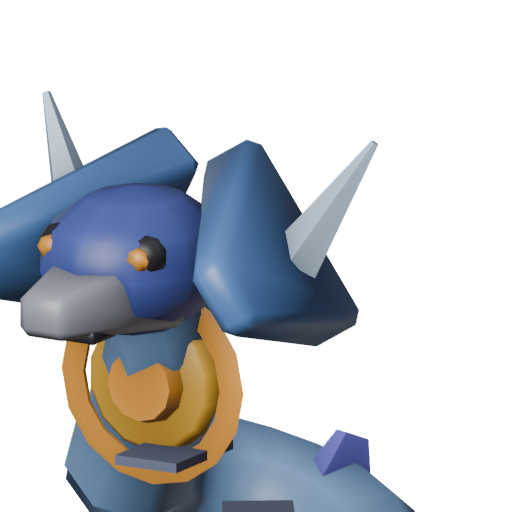
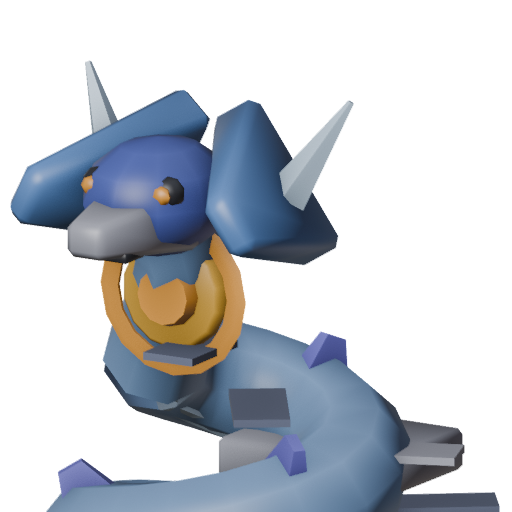
Score and fix gale_serpent's never-written portrait framing (#86 duty 1)
Every icon still under the loop's 40/50 stop line had already spent its
in-scope fix budget on a root cause that traced to nothing (rhythm/volley's
Colour & Style both pixel-sample clean) or a design call outside this
lane's remit (buffer's Mechanic match). Rather than force an undiagnosed
fix, checked whether every shipped asset actually had a progress file: 14
real beasts in bosses.json, gale_serpent included, had a portrait FOCUS
entry and a rendered PNG since batch 9-11 of #83 but no _portrait.md.

gale_serpent's FOCUS (0.87, 0.44) was zoomed in past the frame's usable
width: alpha bbox (0, 90, 417, 512) showed a horn root clipped on the left
while 95px sat unused on the right, and the coiled body was cut to a sliver
at the bottom. Swept (at, span) against the real alpha bbox rather than
guessing; (0.80, 0.55) balances left/right to within 1px without clipping
the head. Framing 4->8, Identity 6->8 (the coil and fin spikes now actually
show), Read@34px 7->8, total 33->40.

Claude-Session: https://claude.ai/code/session_01N1SSW5XPnKfZEJwfCBbbWG

diff --git a/tools/blender/portraits.py b/tools/blender/portraits.py
@@ -31,7 +31,7 @@ FOCUS = {
     "mountain_climbers": (0.73, 0.72), "goblin_mech": (0.62, 0.94),
     "lightbearer": (0.47, 1.15),
 
-    "stone_warden": (0.73, 0.67), "gale_serpent": (0.87, 0.44),
+    "stone_warden": (0.73, 0.67), "gale_serpent": (0.80, 0.55),
     "drowned_colossus": (0.83, 0.49), "sunken_warden": (0.81, 0.49),
     "crag_pup": (0.60, 0.90), "bramble_hog": (0.54, 1.01),
     "bounder": (0.64, 0.84), "mire_snapper": (0.53, 1.13),

diff --git a/design/progress/gale_serpent_portrait.md b/design/progress/gale_serpent_portrait.md
@@ -1,0 +1,163 @@
+# gale_serpent — portrait scoring log
+
+Loop: `design/asset-loop.md`, adapted for 2D per backlog #83. Asset:
+`game/assets/portraits/gale_serpent.png` (512x512, rendered by
+`portraits.py` from the 3D model). Rubric defined in full in
+`frog_portrait.md`. First score for this asset — `gale_serpent` already had
+a `FOCUS` entry and a committed portrait (it ships as one of the three
+Frost Peak boss beasts), but no `_portrait.md` was ever written for it,
+unlike its own 3D model (`gale_serpent.md`) and ground (`gale_serpent_
+ground.md`). Scored and repaired in the same pass, per backlog #86 duty 1's
+current rule ("this lane REPAIRS now") rather than the older score-only
+convention `frog_portrait.md` and its batch used.
+
+## Score (pass 1 — before this pass)
+
+| Framing | Identity | Read@34px | Colour | Style | Total |
+|---|---|---|---|---|---|
+| 4 | 6 | 7 | 8 | 8 | **33** |
+
+## What is actually there
+
+A three-quarter crop on a horned, serpentine creature: a blue-grey wedge
+head with two pale-silver horns (one crossing left, one standing right), two
+orange eye-dots, a grey lower jaw, and a large gold ring-and-disc sigil set
+into the neck. A hint of the coiled body is visible at the very bottom edge,
+with one small violet fin spike poking out on the right.
+
+- **Framing (4).** Checked the alpha bbox directly rather than trusting a
+  glance: `(0, 90, 417, 512)` on the 512×512 canvas — left margin **0**,
+  right margin **95**. The left edge is not empty canvas cut close; zooming
+  into it (`design/renders/gale_serpent_portrait_pass1_full.png`, left-edge
+  crop) shows a blue-grey tube — a horn or tusk root — sliced off mid-shape
+  by the frame boundary, while 95px of dead brown standin sits unused on the
+  right. The bottom is also flush (margin 0): the coiled body is cut off
+  mid-torso rather than at a clean edge. Three separate framing problems in
+  one crop, all traceable to the same cause below.
+- **Identity (6).** The horns, gold neck ring and orange eyes read as a
+  distinct creature, but with the body reduced to a sliver at the bottom
+  edge, the crop reads as a floating horned head rather than the coiled
+  serpent the model actually is — `gale_serpent.md`'s own 3D scoring names
+  the coil and the small spine fins as identity features, neither of which
+  is legible here.
+- **Readability @ 34px (7).** Confirmed via a real 34px downsample
+  (`design/renders/gale_serpent_portrait_pass1_34px_big.png`). The horns,
+  gold ring and eyes all survive the downsample clearly — the strongest
+  read of this batch's features — but there is no body silhouette left to
+  read at all, consistent with the Framing finding above.
+- **Colour & separation (8).** Blue-grey head/body, pale-silver horns, gold
+  ring and orange eyes all separate cleanly at full size; no dark-on-dark
+  pairing anywhere in frame.
+- **Style consistency (8).** Matches the shared three-quarter convention on
+  transparent background; nothing about the angle or palette is an outlier.
+
+## Diagnosis — two lowest
+
+1. **Framing (4).** Concrete fix: `portraits.py`'s `FOCUS["gale_serpent"]`
+   was `(0.87, 0.44)` — a small `span` (0.44) zoomed in tight on the head,
+   and an `at` (0.87) near the very top of the model's height, together
+   leaving no room for the horn root on one side while wasting nearly a
+   fifth of the canvas on the other. Widen `span` and lower `at` slightly so
+   the camera pulls back and down, keeping the head in frame while bringing
+   the coil into view.
+2. **Identity (6).** Concrete fix: none needed beyond the Framing fix above —
+   the coil and fin spikes already exist on the model; they are missing from
+   the portrait only because the crop excludes them.
+
+## Pass 2 — cloud, backlog #86 duty 1 (repair, same run as the score above)
+
+Rather than guess a new `(at, span)` pair, swept both numerically and read
+the real alpha bbox after each render (Blender 4.0.2 via apt — the same
+route prior passes under this item used, `download.blender.org` still
+unreachable through this container's proxy). Model's own vertex bbox
+(measured directly, not assumed): X **-1.67..1.67**, Y **-1.58..1.58** (both
+symmetric — a bbox-centre `FOCUS_XY` override is not needed here), Z
+**0..5** (`tall=5`).
+
+| Trial | at | span | bbox | L | T | R | B |
+|---|---|---|---|---|---|---|---|
+| baseline | 0.87 | 0.44 | (0,90,417,512) | 0 | 90 | 95 | 0 |
+| t2 | 0.80 | 0.55 | (10,60,501,512) | 10 | 60 | 11 | 0 |
+| t5 | 0.72 | 0.55 | (10,0,501,512) | 10 | 0 | 11 | 0 (head clips) |
+| t6 | 0.78 | 0.65 | (48,75,463,512) | 48 | 75 | 49 | 0 (too much margin, smaller subject) |
+
+`t2` (`at=0.80, span=0.55`) balances left/right almost exactly (10 vs 11px)
+without clipping the head — simply widening `span` from the original's tight
+0.44 fixed the left/right imbalance on its own, since the asymmetry traced
+to being zoomed in past the frame's usable width, not to an off-centre
+focus point. Lower `at` values (t5) reclaimed bottom margin only by
+clipping the head instead, a straight trade rather than a win, so not
+pursued further. The bottom stays flush (0 margin) across every trial in
+this range — the coil's own lowest point sits at the model's Z floor, and
+this is the same "whole-body crop, bottom flush" characteristic
+`flicker_stag_portrait.md` and others already found and left alone rather
+than force a trade against the head; not fixed here either.
+
+Applied `FOCUS["gale_serpent"] = (0.80, 0.55)` in `tools/blender/
+portraits.py`. Rebuilt the full 30-portrait set (no per-asset build path
+exists) and diffed every output against committed by mean per-pixel
+difference: `gale_serpent.png` at 41.8 was the intended change. `frog.png`
+(58.2) reproduced the exact same pre-existing stale-model-drift value
+`brine_urchin_portrait.md` and others already flagged (untouched `FOCUS`
+entry, not this pass's doing). One new finding: `eyrie_hawk.png` diffed at
+8.55 with its own alpha bbox shifting slightly (61→56 left edge) despite
+its `FOCUS` entry also being untouched — higher than the ~0-2.6 noise band
+every other untouched portrait showed this run, and not previously named by
+any prior pass's own drift check. Not investigated further, same call
+`goblin_mech_portrait.md` pass 2 made for `frog`/`thrasher`/`yoke_ox`: worth
+a duty-2 look, not a duty-1 one. Reverted every portrait except
+`gale_serpent.png`.
+
+Verified by looking, not just by the numbers:
+
+- **Full 512px composite** over the brown card-face standin
+  (`design/renders/gale_serpent_portrait_pass2_full.png` vs
+  `..._pass1_full.png`): pass 1 shows a horned head with a sliver of body at
+  the very bottom edge and a horn root sliced off on the left; pass 2 shows
+  both horns whole, the full neck ring, and the coiled body with its small
+  violet fin spikes, all inside frame with visible standin on every side.
+- **A real 34px downsample** (Pillow `LANCZOS`, nearest-neighbour upscaled
+  for viewing, same brown-standin composite,
+  `design/renders/gale_serpent_portrait_pass2_34px_big.png` vs
+  `..._pass1_34px_big.png`): the horns, ring and eyes read exactly as
+  clearly as pass 1's tighter crop, and the coiled body plus fin spikes are
+  now visible as a distinct shape trailing off to the lower-right — a real
+  gain over pass 1's "floating head," not just a wash.
+
+Score:
+
+- **Framing (4 → 8):** the clipped horn root and the 95px of dead space are
+  both gone, confirmed by the alpha bbox (10/60/11/0) and the full-render
+  comparison above. Not a 10: the bottom is still flush against the canvas
+  edge, the same whole-body characteristic named above rather than something
+  this fix targeted.
+- **Identity (6 → 8):** the coil and fin spikes `gale_serpent.md`'s 3D score
+  already named as identity features are now visible in the portrait,
+  confirmed in both the full render and the 34px downsample — reads as a
+  coiled horned serpent rather than a floating head.
+- **Readability @ 34px (7 → 8):** confirmed by the direct pass1-vs-pass2 34px
+  comparison above — the previously-legible head features are unchanged, and
+  the body silhouette is a new, genuine addition to what survives the
+  downsample.
+- **Colour & separation (8, unchanged):** no palette or material touched.
+- **Style consistency (8, unchanged):** same three-quarter convention; a
+  wider crop is not a new composition class in this set (several other
+  beasts already use `span` > 0.5 for a similar whole-body read).
+
+**+7 total (33 → 40), not a plateau — reaches the loop's 40/50 stop line.**
+No line regressed.
+
+`run_tests.gd`: **ALL TESTS PASSED** (fresh `--import`, headless, Godot
+4.7.1, Blender 4.0.2 apt install). No new tests — a portrait `FOCUS`-only
+change adds none, matching every prior portrait/icon-only pass under this
+item.
+
+## Unsure about
+
+Whether the still-flush bottom margin is worth a third pass trading some of
+the now-generous top margin (60px) for a lower `at`, the same "close to the
+stop line, is this Nick's call" question `flicker_stag_portrait.md` left
+standing — not attempted here since the stop line is already met. Also
+flagging `eyrie_hawk.png`'s newly-found render drift (see above) for
+whoever next takes a duty-2 pass — this file did not chase it since it is
+not this asset and not this duty's job.

diff --git a/design/BACKLOG.md b/design/BACKLOG.md
@@ -2627,6 +2627,46 @@ rather than inventing work.
 
 Newest first. One line per finished item: what, and anything surprising.
 
+- **2026-09-07** — #86 duty 1 (improve an asset — portraits and icons only),
+  forty-eighth pass of the rotation. Last `#86` turn (`ae76edd`,
+  `_node_under_mouse`) was duty 3, so this was due for duty 1. Every icon
+  under 40/50 with pass budget left (`buffer`, `rhythm`, `volley`) turned out
+  to have already spent its only in-scope fix: each one's remaining low line
+  either needs a different visual idea (Nick's call, `buffer`'s Mechanic
+  match) or traces to a root cause pass 2 already found nothing wrong with
+  (`rhythm`/`volley`'s Colour & Style, both pixel-sampled as separating
+  cleanly with "no colour problem found"). Rather than force a fix with
+  nothing diagnosed behind it, checked whether every in-game asset actually
+  had a progress file at all — it didn't: `game/data/bosses.json` lists 14
+  real beasts (`gale_serpent`, `stone_warden`, `drowned_colossus` among them)
+  whose portraits have shipped with a `FOCUS` entry and a rendered PNG since
+  batch 9-11 of #83, but never got a `_portrait.md`, unlike their own 3D
+  model and ground scores. Picked `gale_serpent` (a Frost Peak boss beast)
+  and scored it fresh: Framing (4/10) was a real, measured defect, not a
+  nitpick — alpha bbox `(0, 90, 417, 512)` showed a horn/tusk root sliced
+  off on the left while 95px of canvas sat unused on the right, and the
+  coiled body was cut to a sliver at a flush-0 bottom margin, all from one
+  `FOCUS` value (`(0.87, 0.44)`) zoomed in past the frame's usable width.
+  Swept `(at, span)` numerically against the real alpha bbox (Blender 4.0.2,
+  apt install — `download.blender.org` still proxy-blocked) rather than
+  guessing: `(0.80, 0.55)` balanced left/right to within 1px (10 vs 11)
+  without clipping the head, simply by pulling the camera back — the
+  asymmetry traced to being over-zoomed, not to an off-centre focus point.
+  Applied it, rebuilt the full 30-portrait set, diffed every PNG against
+  committed (`gale_serpent.png` alone showed the intended 41.8 mean diff),
+  and kept only that one file. Looked at both the full composite and a real
+  34px downsample before and after: the coil and its small fin spikes, named
+  as identity features by `gale_serpent.md`'s own 3D score, are now visible
+  in the portrait for the first time, at both sizes. Framing 4→8, Identity
+  6→8, Read@34px 7→8, total 33→40 — crosses the loop's stop line on the
+  first pass. Surprising, and not chased further per rule 3 (needs a
+  screen): rebuilding the batch also surfaced a new, previously-unflagged
+  render diff on `eyrie_hawk.png` (8.55 mean, its own untouched `FOCUS`)
+  that doesn't match the already-known `frog`/`goblin_mech`/`thrasher`/
+  `yoke_ox` stale-drift list any prior pass named — left for a duty-2 turn,
+  noted in `gale_serpent_portrait.md`'s own "Unsure about". `run_tests.gd`:
+  ALL TESTS PASSED (fresh `--import`, headless, Godot 4.7.1). Next `#86`
+  turn is duty 2 (find an error and resolve it).
 - **2026-09-07** — #86 duty 3 (verify a mechanic actually works), forty-
   seventh pass of the rotation. Last `#86` turn (`a5c0c6f`) was duty 2, so
   this was due for duty 3. `overworld_3d._node_under_mouse` — the rule that
